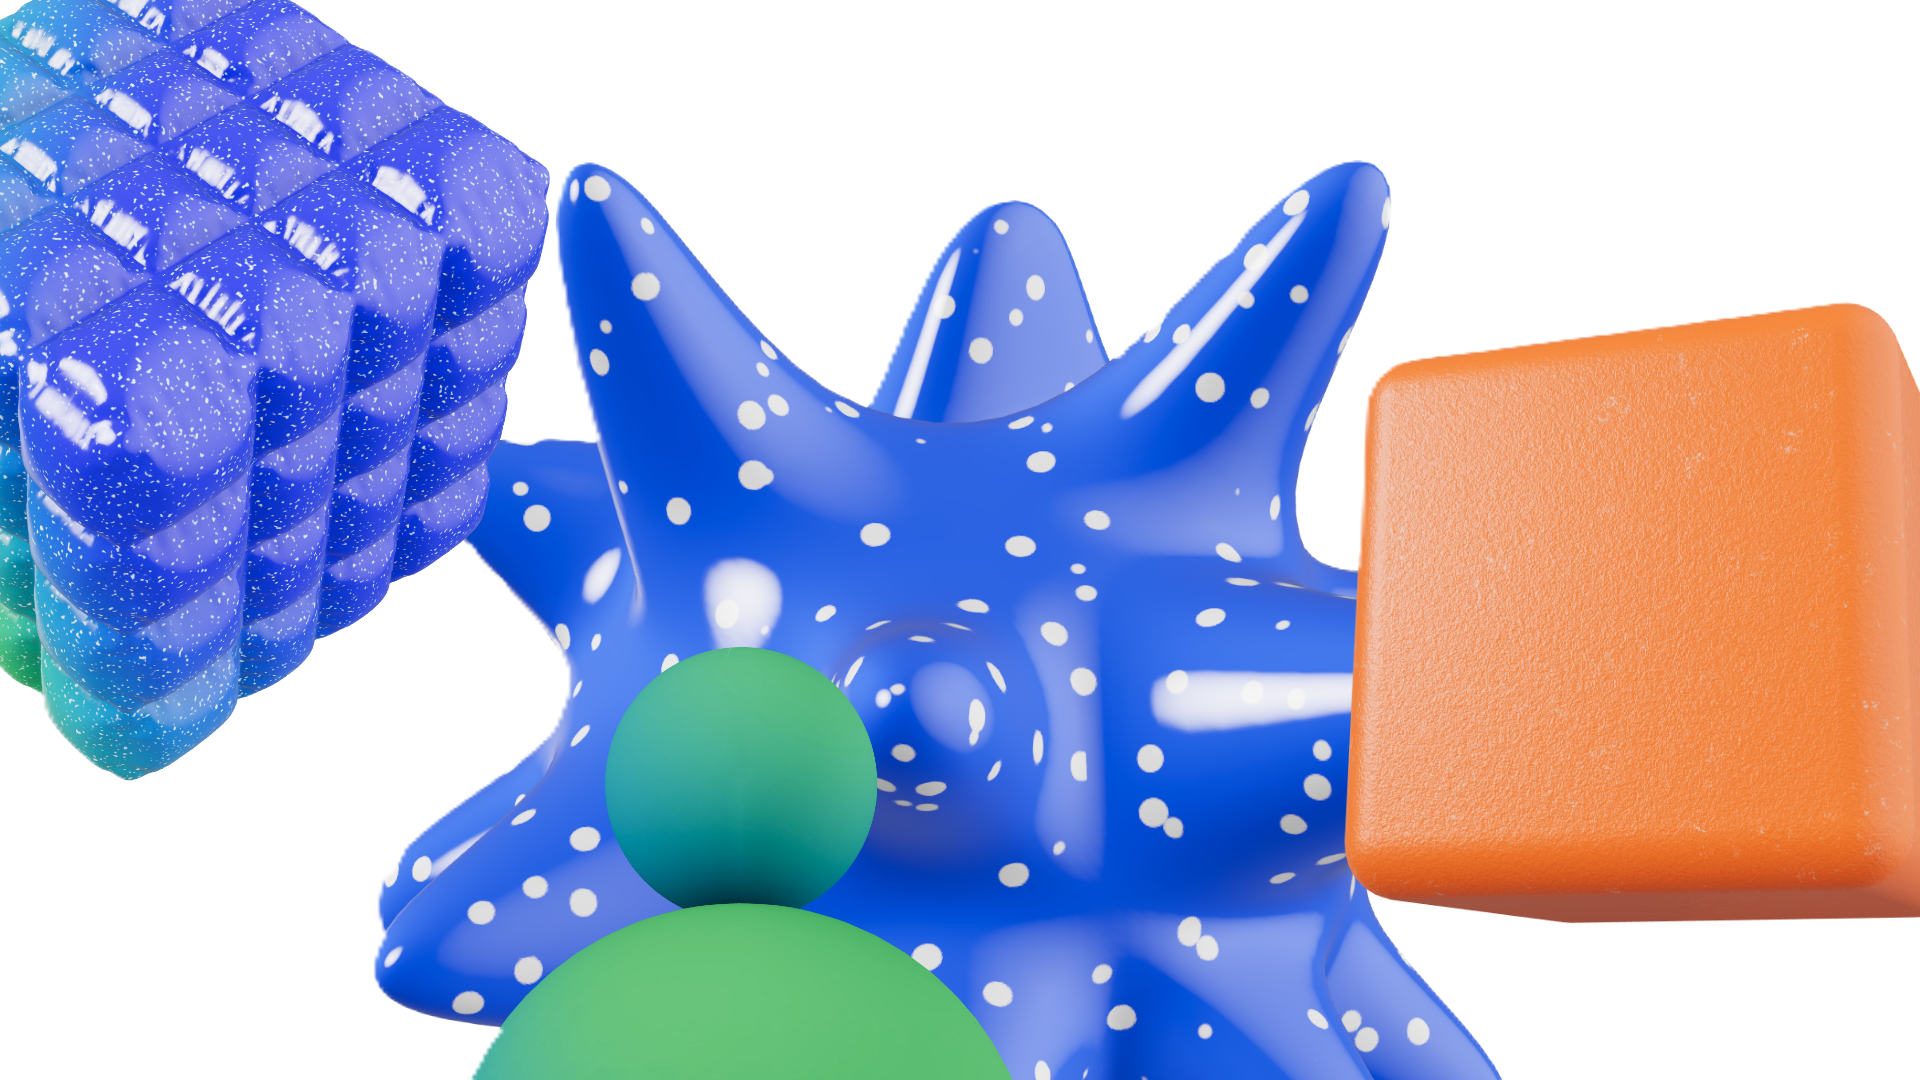
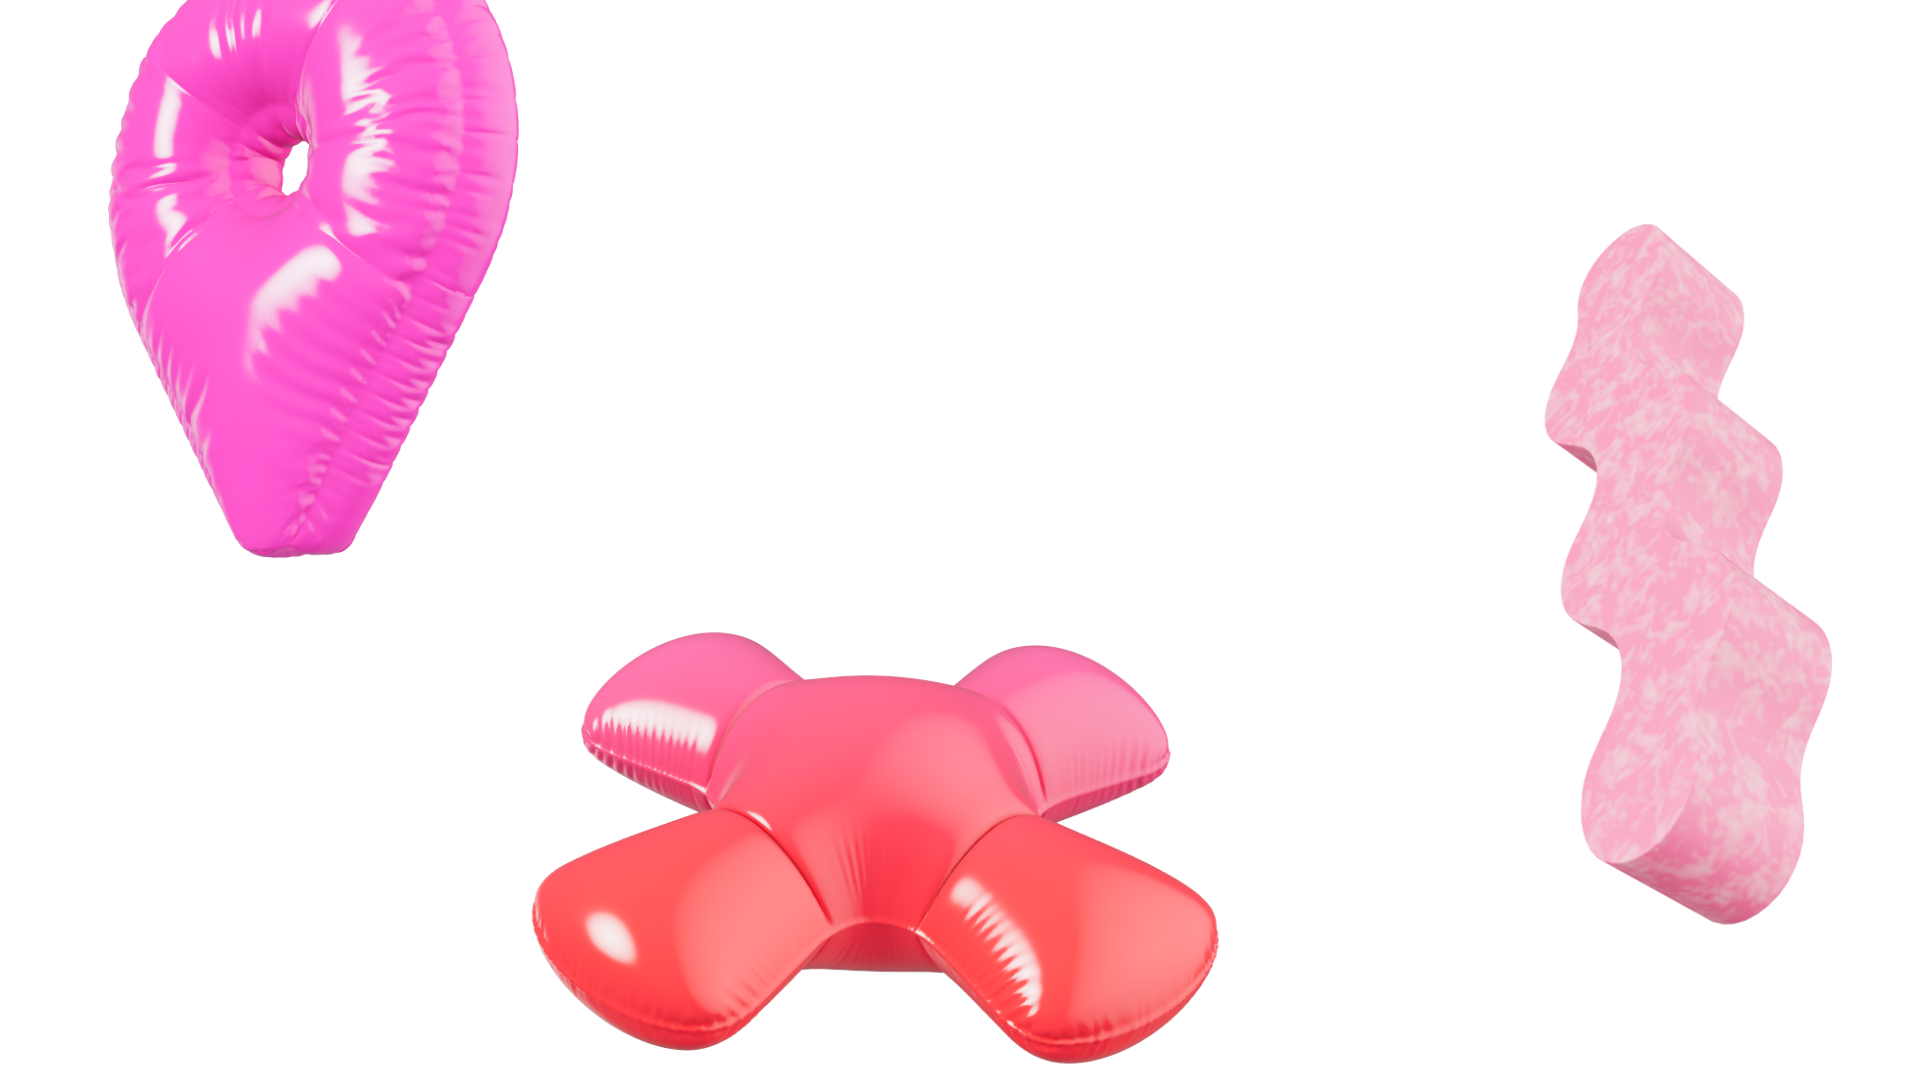
mer ui fix

diff --git a/MVC/wwwroot/css/site.css b/MVC/wwwroot/css/site.css
@@ -21,7 +21,6 @@
 
 :root {
     --error-color: red;
-    --succeed-color: green;
     --link-color: #73a7eb;
 
     --bg-lighter-color: #171717;
@@ -145,13 +144,9 @@ html {
     box-shadow: 0 0 0 0.1rem white, 0 0 0 0.25rem #258cfb;
 }
 
-input[type="submit"] {}
-
-.btn,
 .custom-button {
     border: none;
     padding: 5px 7px;
-
     border-radius: 20px;
     background-color: transparent;
     border: 2px solid var(--border-color);
@@ -164,11 +159,22 @@ input[type="submit"] {}
     background-color: var(--accent-color);
     border-color: var(--accent-color);
     color: var(--bg-lighter-color);
+  }
+
+button,
+input[type="submit"] {
+    color: var(--btn-text-color);
+    background-color: var(--btn-bg-color);
+    border: 1px solid var(--btn-border-color);
+    border-radius: 0;
+
+    padding: 4px 8px;
 }
 
-
-.btn:hover,
-.btn:focus {
+button:hover,
+button:focus,
+input[type="submit"]:hover,
+input[type="submit"]:focus {
     border-color: var(--text-color);
 }
 
@@ -218,24 +224,22 @@ nav {
 }
 
 .content-wrapper {
-    position: relative;
+    margin-left: 0;
+    margin-right: 0;
     width: 100%;
     flex-grow: 1;
     flex-direction: column;
     display: flex;
     justify-content: start;
     align-items: center;
-
-    padding: 20px 20px;
 }
 
 .navbar-grouping {
     display: flex;
     justify-content: center;
     align-items: center;
-    gap: 4px;
+    gap: 8px;
 }
-
 
 .search-container {
     position: relative;
@@ -282,6 +286,7 @@ nav {
     position: absolute;
     width: 100%;
     background-color: var(--bg-lighter-color);
+    border-radius: 10px;
 }
 
 .search-result-item {
@@ -291,6 +296,7 @@ nav {
     padding: 6px 10px;
     cursor: pointer;
     bottom: 0;
+    border-radius: 10px;
     overflow-x: auto;
 }
 
@@ -320,37 +326,7 @@ nav {
     flex-direction: column;
 }
 
-.navbar-grouping img {
-    height: 28px;
-    width: 28px;
-}
-
-.link-flex {
-    display: flex;
-    justify-content: center;
-    align-items: center;
-    gap: 4px;
-}
-
-.mobile-nav-text {
-    display: block;
-}
-
-.nav-item {
-    min-width: 100px;
-    display: flex;
-    justify-content: flex-start;
-}
-
 @media (min-width: 576px) {
-
-    .settings-icon:hover {
-        animation: spin 0.6s forwards;
-    }
-
-    .nav-item {
-        min-width: 0;
-    }
 
     .navbar-collapse {
         flex: 0;
@@ -360,86 +336,4 @@ nav {
         flex-direction: row;
     }
 
-    .nav-section {
-        width: 150px;
-    }
-
-    .mobile-nav-text {
-        display: none;
-    }
-}
-
-
-.notification {
-    position: absolute;
-    z-index: 100;
-    top: 0;
-    right: 0;
-    margin: 10px;
-
-    padding: 12px;
-    width: 300px;
-    border: 1px solid var(--border-color);
-    background-color: var(--bg-color);
-
-    display: flex;
-    justify-content: flex-start;
-    align-items: center;
-    gap: 8px;
-
-    transition: opacity 2s;
-}
-
-
-.notification * {
-    color: var(--text-color);
-    font-weight: 600;
-}
-
-.notify-success {}
-
-.notify-error {
-    color: var(--error-color);
-}
-
-.message-wrapper {
-    position: relative;
-    cursor: pointer;
-}
-
-.message-circle {
-    height: 16px;
-    min-width: 16px;
-
-    position: absolute;
-    top: 0;
-    right: 0;
-    transform: translate(50%, -50%);
-
-    background-color: var(--error-color);
-    padding: 4px;
-    border-radius: 10px;
-    font-size: 0.8rem;
-
-    display: flex;
-    justify-content: center;
-    align-items: center;
-
-}
-
-.message-circle * {
-    color: white !important;
-}
-
-
-
-@keyframes spin {
-    0% {
-        transform: rotate(0deg);
-    }
-
-    100% {
-        transform: rotate(180deg);
-
-    }
 }

diff --git a/MVC/wwwroot/js/homepage.js b/MVC/wwwroot/js/homepage.js
@@ -1,28 +1,6 @@
-// Start of landing video scroll script
+
 
-//const section = document.querySelector("section.homepage-landing");
-//const video = section.querySelector("video");
-
-//video.pause();
-
-//const scroll = () => {
-//    const distance = window.scrollY - section.offsetTop;
-//    const totalDistance = section.clientHeight - window.innerHeight;
-
-//    let percentage = distance / totalDistance;
-//    percentage = Math.max(0, percentage)
-//    percentage = Math.min(percentage, 1)
-
-//    if (video.duration > 0) {
-//        video.currentTime = video.duration * percentage;
-//    }
-//}
-
-//scroll()
-//window.addEventListener("scroll", scroll)
-
-
-// End of landing video scroll script
+// Start of parallax scroll script
 
 const layers = document.querySelectorAll(".layer");
 
@@ -33,7 +11,7 @@ addEventListener("scroll", () => {
     }
 })
 
-// Start of card carousel scroll arrows
+// Start of CV carousel scroll arrows
 var scrollContainerCv = document.getElementsByClassName("scroll-container").item(0);
 var rightArrow = document.getElementById("slide-1-arrow-right");
 
@@ -46,18 +24,19 @@ document.getElementById("slide-1-arrow-left").addEventListener("click", () => {
     scrollContainerCv.scrollBy(-700, 0);
 })
 
-var scrollContainerCv = document.getElementsByClassName("scroll-container").item(1);
+// Start of Projects scroll arrow
+
+var scrollContainerProject = document.getElementsByClassName("scroll-container").item(1);
 var rightArrow = document.getElementById("slide-1-arrow-right-2");
 
 rightArrow.addEventListener("click", () => {
-    scrollContainerCv.scrollBy(700, 0);
+    scrollContainerProject.scrollBy(700, 0);
 
 })
 
 document.getElementById("slide-1-arrow-left-2").addEventListener("click", () => {
-    scrollContainerCv.scrollBy(-700, 0);
+    scrollContainerProject.scrollBy(-700, 0);
 })
-// End of scroll arrows
 
 
 

diff --git a/MVC/wwwroot/css/homepage.css b/MVC/wwwroot/css/homepage.css
@@ -123,19 +123,19 @@
 }
 
 .layer:nth-of-type(1) {
-    background-image: url('../Assets/UI-Images/pink1.png');
+    background-image: url('../Assets/UI-Images/1.png');
 }
 
 .layer:nth-of-type(2) {
-    background-image: url('../Assets/UI-Images/pink2.png');
+    background-image: url('../Assets/UI-Images/2.png');
 }
 
 .layer:nth-of-type(3) {
-    background-image: url('../Assets/UI-Images/pink3.png');
+    background-image: url('../Assets/UI-Images/3.png');
 }
 
 .layer:nth-of-type(4) {
-    background-image: url('../Assets/UI-Images/pink4.png');
+    background-image: url('../Assets/UI-Images/4.png');
 }
 
 
@@ -187,14 +187,17 @@
     color: var(--text-color);
 }
 
-    .card > .list-group {
-        border-color: var(--bg-color);
-        border-top: 1px solid var(--bg-color);
-        border-bottom: 1px solid var(--bg-color);
-    }
+.card > .list-group {
+    border-color: var(--bg-color);
+    border-top: 1px solid var(--bg-color);
+    border-bottom: 1px solid var(--bg-color);
+}
 
 .list-group-item {
     background-color: var(--bg-lighter-color);
     color: var(--text-color);
+    border: var(--bs-list-group-border-width) solid var(--bg-color);
 }
+
+
 
